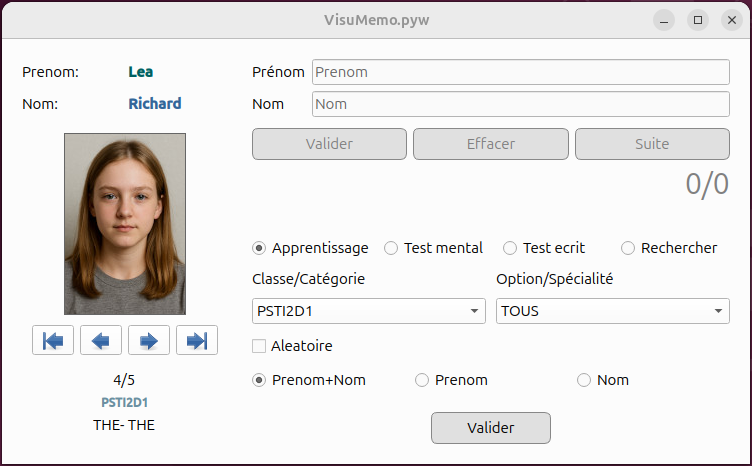
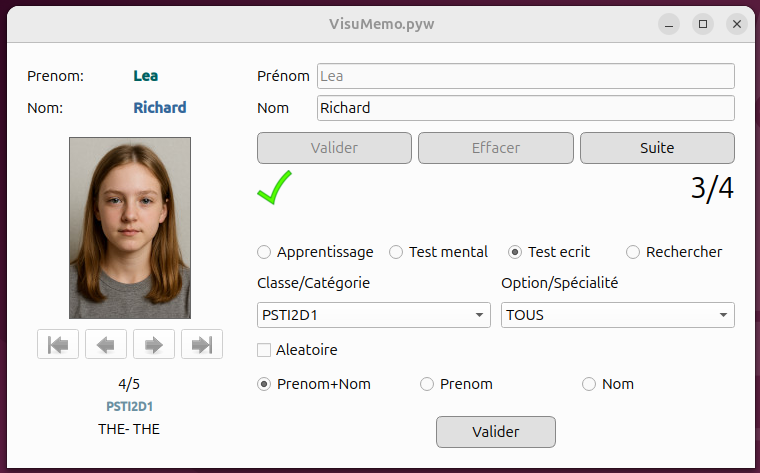
mise à jour de la page du projet VisuMemo

diff --git a/_tabs/visumemo.md b/_tabs/visumemo.md
@@ -44,4 +44,4 @@ Python, SQLite, Tkinter
 
 ## 5 Conclusion
 
-Le programme fonctionne parfaitemnt, mais Tkinter ne permet pas de créer des interfaces modernes. Comme je l'ai fait popur Secretariat, je souhaite moderniser l'interface en utilisant Pyside6.
+Le programme fonctionne parfaitemnt, Je viens de passer de Tkinter à PySide6. Je travaille sur des versions pour l'asssemblée et pour les entreprises sont à venir.
